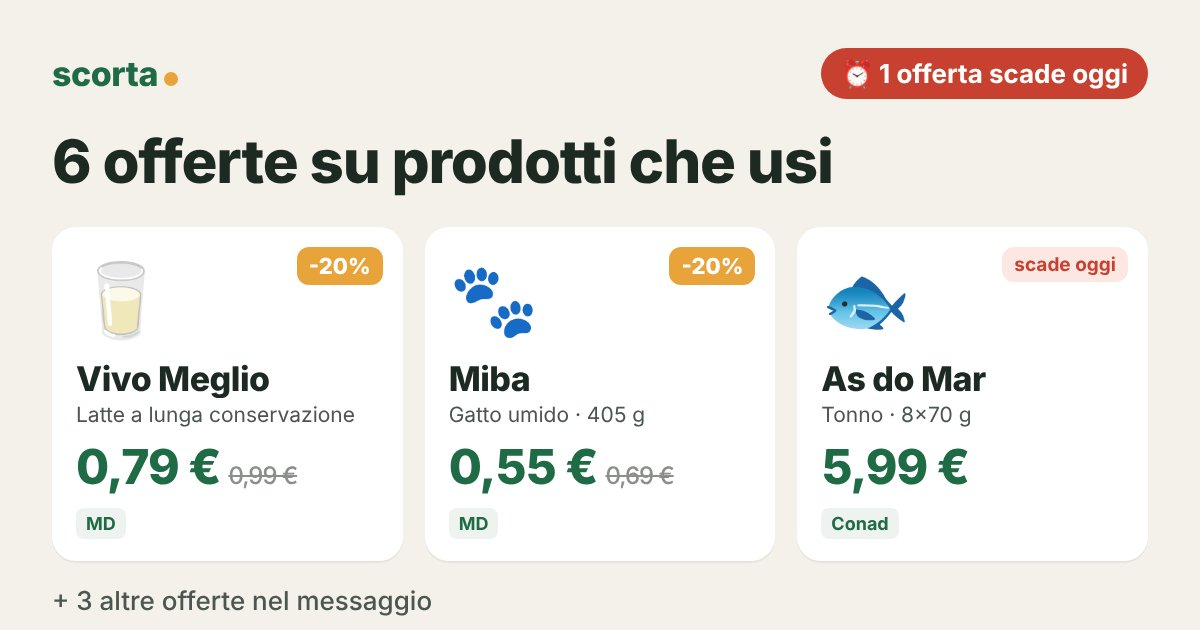
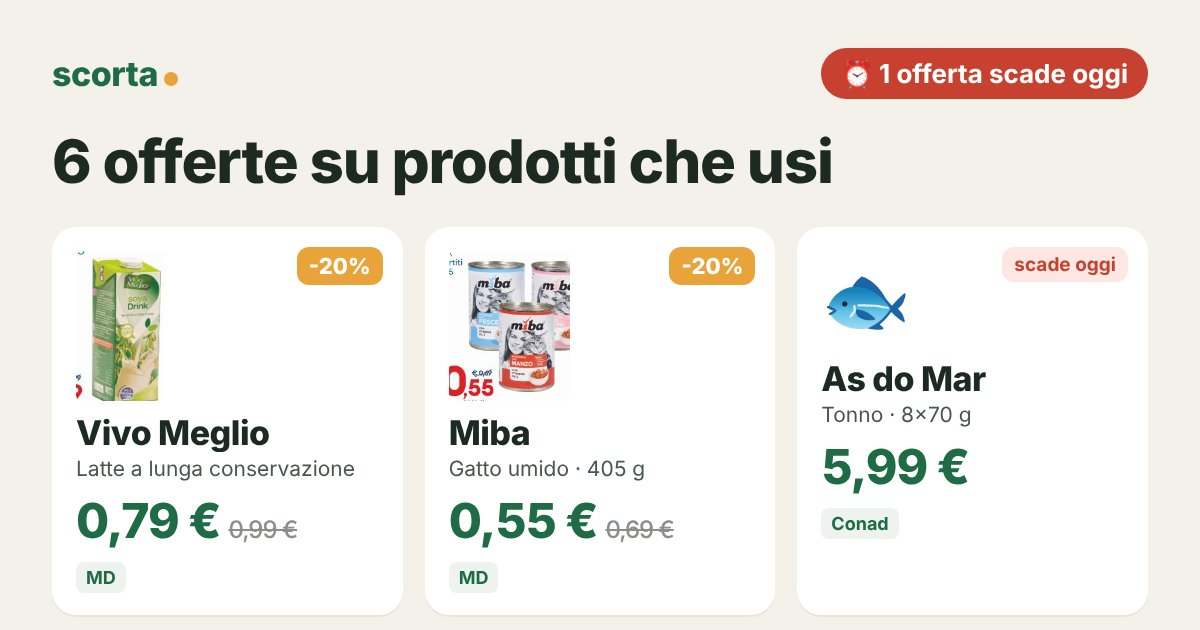
Pagine offerte 2026-11-03
Claude-Session: https://claude.ai/code/session_012BnByD7nnfoHswjF7TKs2L

diff --git a/o/8e803705/index.html b/o/8e803705/index.html
@@ -6,4 +6,4 @@
 <style>body{margin:0;font-family:-apple-system,system-ui,sans-serif;background:#F4F1EA;color:#1d2a22}main{max-width:560px;margin:auto;padding:16px}img{width:100%;border-radius:14px}
 ul{list-style:none;padding:0}li{display:flex;gap:10px;align-items:center;background:#fff;border-radius:12px;padding:10px 12px;margin:8px 0}.ic{font-size:26px}.th{width:44px;height:44px;object-fit:contain;background:#fff}li div:nth-child(2){flex:1}small{color:#6b746e}.pr{text-align:right;white-space:nowrap}s{color:#8a8f8b;font-size:13px}
 .btn{display:block;text-align:center;background:#1f6b45;color:#fff;font-weight:700;font-size:18px;padding:16px;border-radius:14px;text-decoration:none;margin:18px 0}.map{display:block;color:#1f6b45;margin:6px 0;text-decoration:none}</style></head>
-<body><main><img src="card.jpg" alt=""><a class="btn" href="https://tally.so/r/OQQV7k?f=F013&amp;a=A177,A178,A179,A180,A181,A182">✅ Segna cosa hai comprato</a><ul><li><img class=th src=../../img/deco_74M07931P004_301.jpg><div><b>Rummo pasta di semola varie trafile 500 g</b><br><small>Decò Market · fino al 12/11</small></div><div class="pr"><b>0,69 €</b></div></li><li><img class=th src=../../img/deco_74M07885P371_301.jpg><div><b>Pantaleo olio extravergine di oliva 1 lt</b><br><small>Decò Market · fino al 12/11</small></div><div class="pr"><b>4,59 €</b></div></li><li><span class=ic>🐟</span><div><b>As do Mar tonno all&#x27;olio di oliva o al naturale 8x70 g</b><br><small>Conad · scade oggi</small></div><div class="pr"><b>5,99 €</b></div></li><li><span class=ic>🫧</span><div><b>Conad ammorbidente concentrato Elisir 80 lavaggi 2 lt</b><br><small>Conad · fino all&#x27;8/11</small></div><div class="pr"><b>2,99 €</b></div></li><li><span class=ic>🥛</span><div><b>Vivo Meglio bevanda vegetale di soia 1 lt</b><br><small>MD · fino al 15/11</small></div><div class="pr"><s>0,99 €</s> <b>0,79 €</b></div></li><li><span class=ic>🐾</span><div><b>Miba bocconcini per gatto assortiti 405 g</b><br><small>MD · fino al 15/11</small></div><div class="pr"><s>0,69 €</s> <b>0,55 €</b></div></li></ul><a class="map" href="https://www.google.com/maps/search/?api=1&query=Dec%C3%B2%20Market%20Via%20Vincenzo%20Arangio%20Ruiz%2C%2065%20Napoli">📍 Decò Market · Via Vincenzo Arangio Ruiz, 65, Napoli</a><a class="map" href="https://www.google.com/maps/search/?api=1&query=Conad%20Via%20Aniello%20Falcone%20380%20Napoli">📍 Conad · Via Aniello Falcone 380, Napoli</a><a class="map" href="https://www.google.com/maps/search/?api=1&query=MD%20Via%20Giulio%20Cesare%2C%2050%2C%20Fuorigrotta%20Napoli">📍 MD · Via Giulio Cesare, 50, Fuorigrotta, Napoli</a><p><small>Prezzi e scadenze dai volantini delle insegne. Rispondi STOP su WhatsApp per non ricevere più avvisi.</small></p></main></body></html>
+<body><main><img src="card.jpg" alt=""><a class="btn" href="https://tally.so/r/OQQV7k?f=F013&amp;a=A177,A178,A179,A180,A181,A182">✅ Segna cosa hai comprato</a><ul><li><img class=th src=../../img/deco_74M07931P004_301.jpg><div><b>Rummo pasta di semola varie trafile 500 g</b><br><small>Decò Market · fino al 12/11</small></div><div class="pr"><b>0,69 €</b></div></li><li><img class=th src=../../img/deco_74M07885P371_301.jpg><div><b>Pantaleo olio extravergine di oliva 1 lt</b><br><small>Decò Market · fino al 12/11</small></div><div class="pr"><b>4,59 €</b></div></li><li><span class=ic>🐟</span><div><b>As do Mar tonno all&#x27;olio di oliva o al naturale 8x70 g</b><br><small>Conad · scade oggi</small></div><div class="pr"><b>5,99 €</b></div></li><li><span class=ic>🫧</span><div><b>Conad ammorbidente concentrato Elisir 80 lavaggi 2 lt</b><br><small>Conad · fino all&#x27;8/11</small></div><div class="pr"><b>2,99 €</b></div></li><li><img class=th src=../../img/6fd54262f0.jpg><div><b>Vivo Meglio bevanda vegetale di soia 1 lt</b><br><small>MD · fino al 15/11</small></div><div class="pr"><s>0,99 €</s> <b>0,79 €</b></div></li><li><img class=th src=../../img/2f9bd81566.jpg><div><b>Miba bocconcini per gatto assortiti 405 g</b><br><small>MD · fino al 15/11</small></div><div class="pr"><s>0,69 €</s> <b>0,55 €</b></div></li></ul><a class="map" href="https://www.google.com/maps/search/?api=1&query=Dec%C3%B2%20Market%20Via%20Vincenzo%20Arangio%20Ruiz%2C%2065%20Napoli">📍 Decò Market · Via Vincenzo Arangio Ruiz, 65, Napoli</a><a class="map" href="https://www.google.com/maps/search/?api=1&query=Conad%20Via%20Aniello%20Falcone%20380%20Napoli">📍 Conad · Via Aniello Falcone 380, Napoli</a><a class="map" href="https://www.google.com/maps/search/?api=1&query=MD%20Via%20Giulio%20Cesare%2C%2050%2C%20Fuorigrotta%20Napoli">📍 MD · Via Giulio Cesare, 50, Fuorigrotta, Napoli</a><p><small>Prezzi e scadenze dai volantini delle insegne. Rispondi STOP su WhatsApp per non ricevere più avvisi.</small></p></main></body></html>
